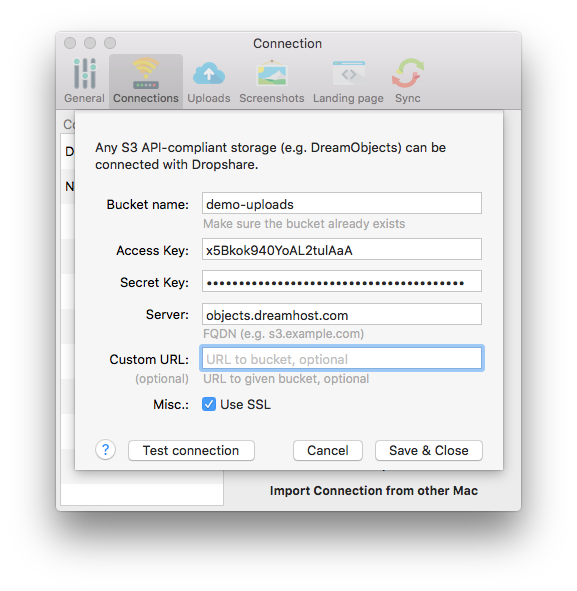
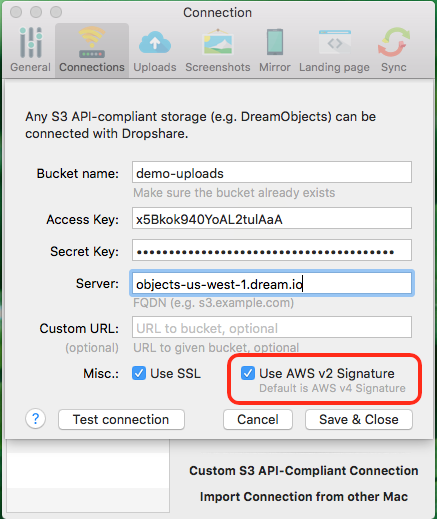
Updates dropshare documentation
Add screen shots with new DreamObjects hostname. Also update text and
screen shots to reflect option for AWS v2 signature.

diff --git a/source/dreamobjects/tutorials/how-to-use-dropshare-with-dreamobjects.rst b/source/dreamobjects/tutorials/how-to-use-dropshare-with-dreamobjects.rst
@@ -37,8 +37,8 @@ Configure Dropshare
 5. Enter your DreamObjects Bucket name, Access and Secret keys. Visit the
    `DreamObjects keys`_ article for details.
 
-   Use **objects-us-west-1.dream.io** for the server. Also be sure to check the box
-   for **Use SSL**.
+   Use **objects.dreamhost.com** for the server. Also be sure to check the
+   boxes for **Use SSL** and **Use AWS v2 Signature**.
 
    .. figure:: images/04-dropshare.png
 
